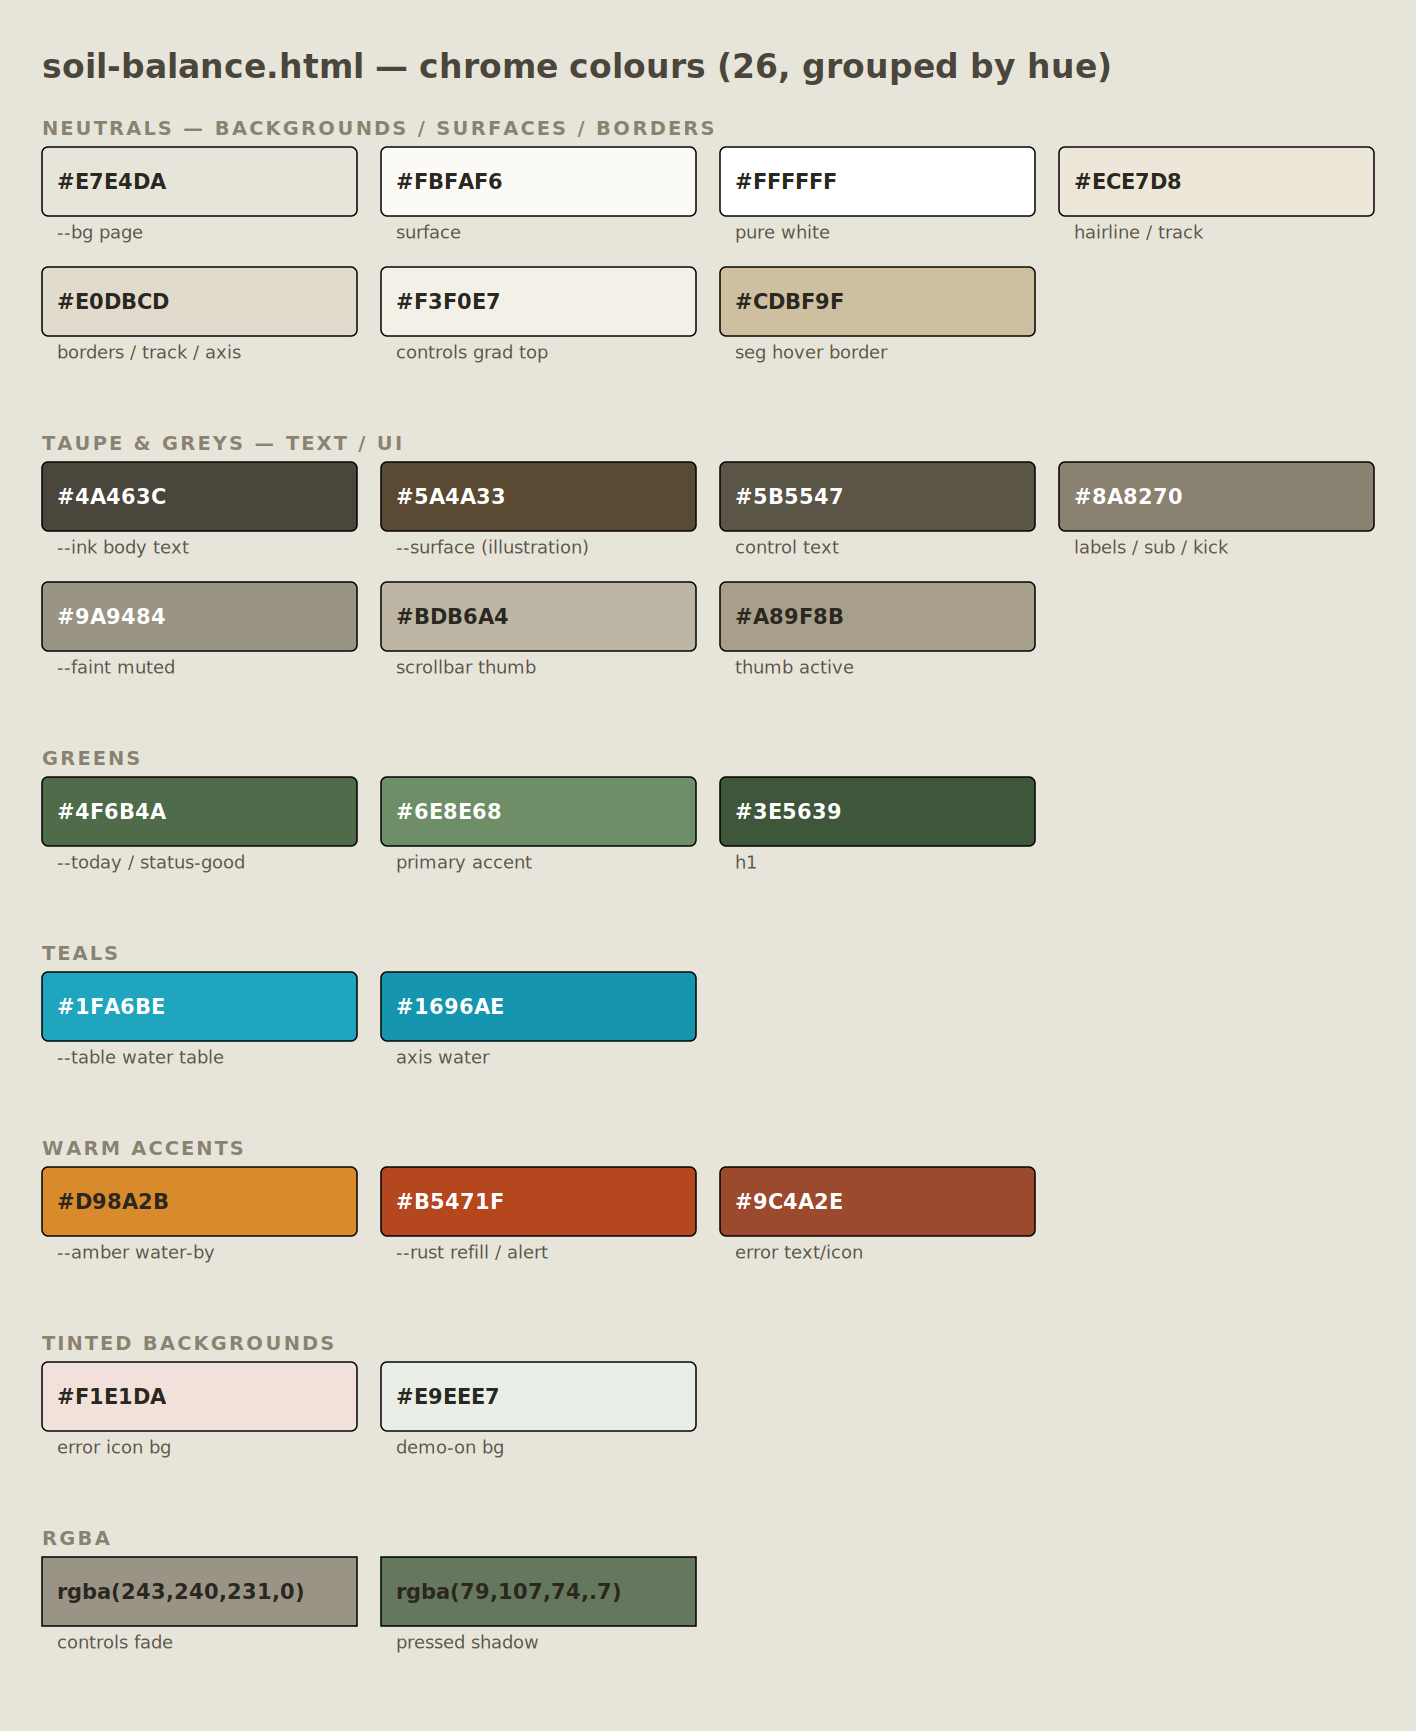
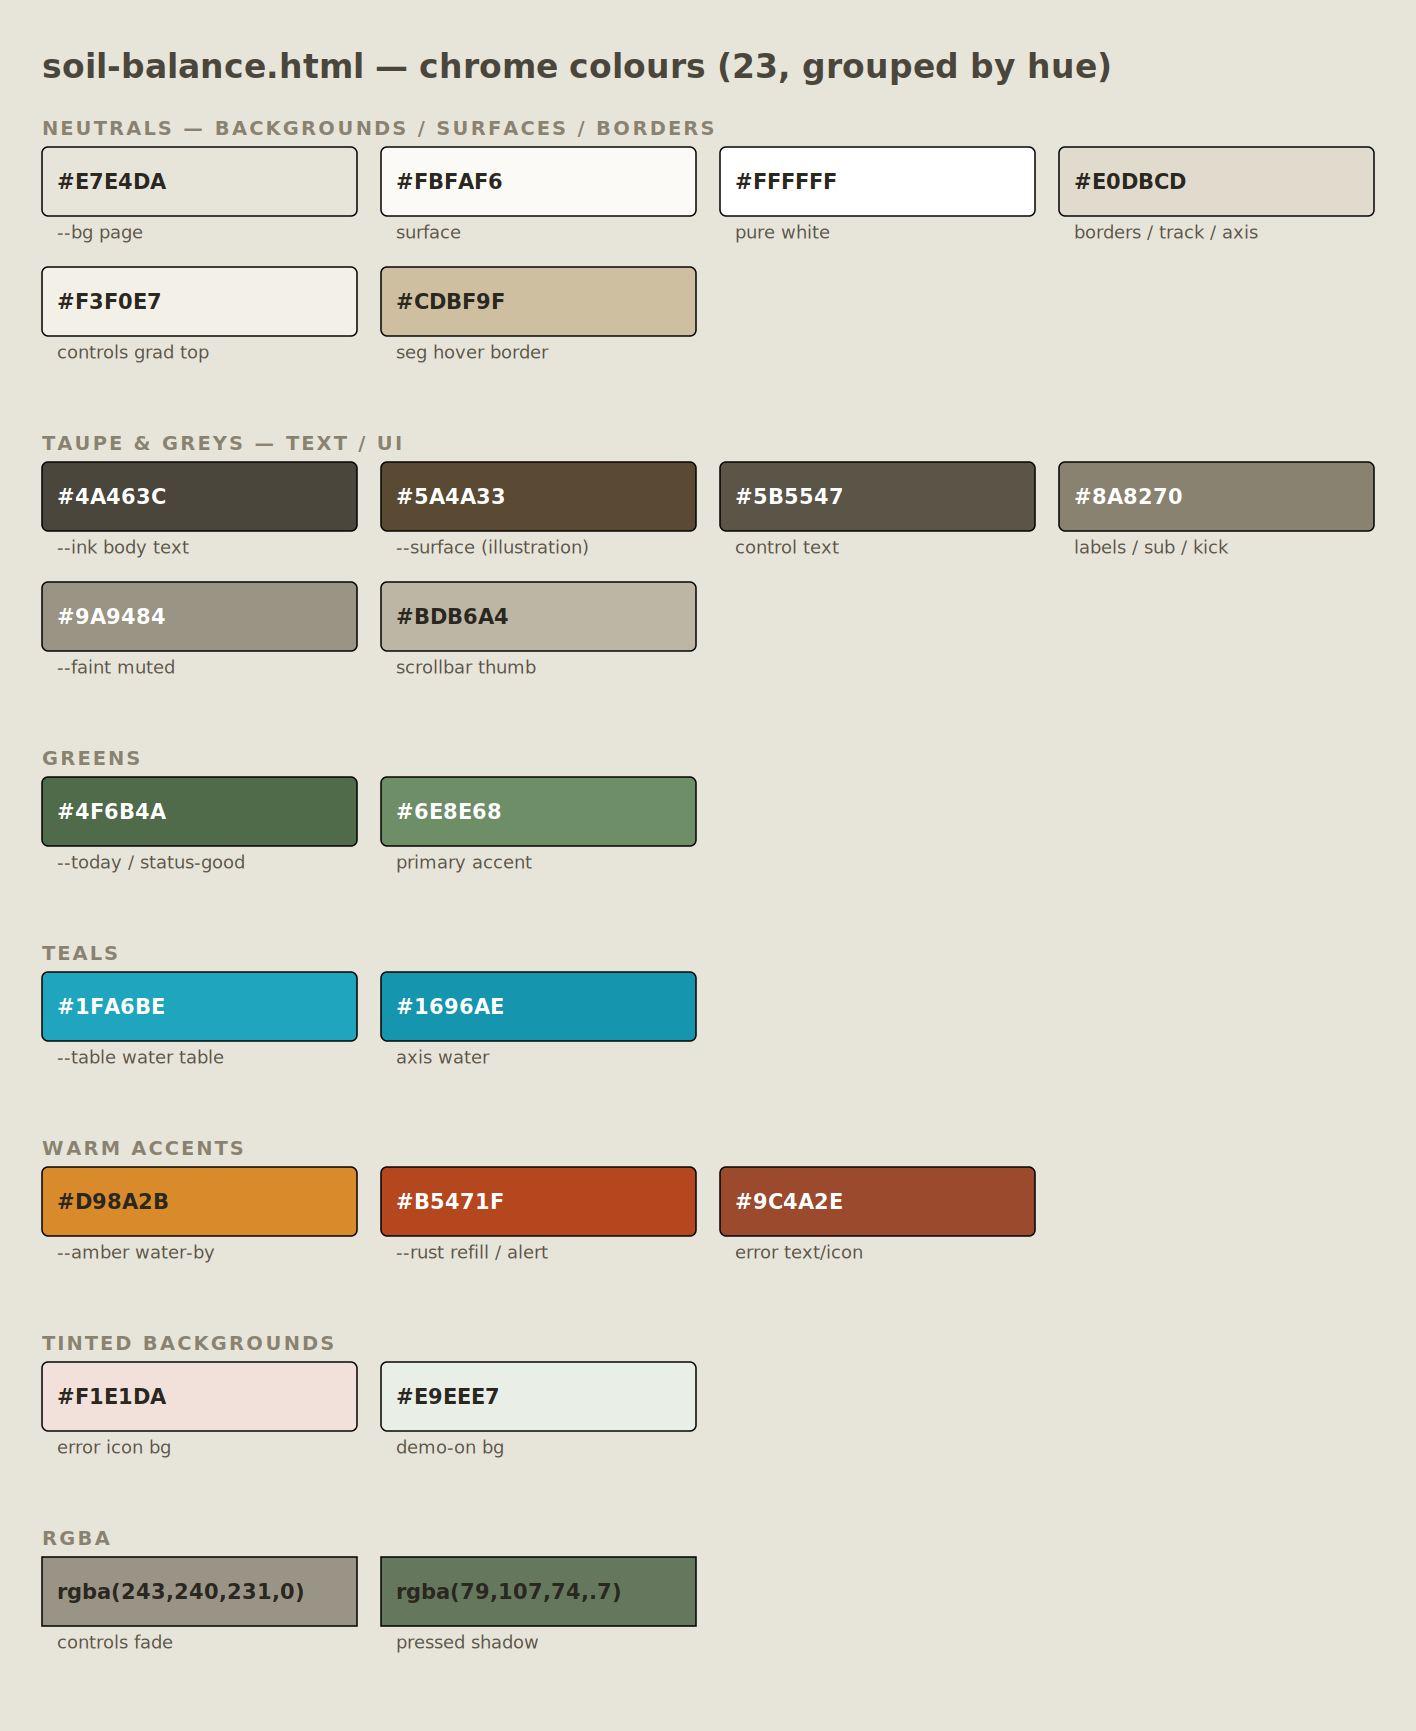
Drop 3 near-duplicate chrome colours (neutral, grey, green)
- #ECE7D8 -> var(--bg)        (ΔE 10.8, closest pair)
- #A89F8B (thumb active) -> var(--faint)
- #3E5639 (h1) -> #4F6B4A     (#3E5639 now SVG-only)

Chrome palette 26 -> 23. Palette reference regenerated.

Claude-Session: https://claude.ai/code/session_01LWU9oYqKFg8ffnR79RqK7k

diff --git a/docs/mockups/soil-balance.html b/docs/mockups/soil-balance.html
@@ -33,9 +33,9 @@
   .scroll{overflow-x:auto;overflow-y:hidden;-webkit-overflow-scrolling:touch;scrollbar-width:none}
   .scroll::-webkit-scrollbar{display:none}
   /* always-visible custom scrollbar (native bars auto-hide on mobile) */
-  .sbar{position:relative;height:9px;margin:8px 12px 0;background:#ece7d8;border-radius:6px;touch-action:none}
+  .sbar{position:relative;height:9px;margin:8px 12px 0;background:var(--bg);border-radius:6px;touch-action:none}
   .sthumb{position:absolute;top:0;bottom:0;left:0;width:40px;min-width:28px;background:#bdb6a4;border-radius:6px;cursor:grab}
-  .sthumb:active{cursor:grabbing;background:#a89f8b}
+  .sthumb:active{cursor:grabbing;background:var(--faint)}
   svg{display:block;transition:opacity .7s ease}
   .grow{transition:transform .8s cubic-bezier(.2,.8,.2,1),opacity .7s ease}
   .booting svg{opacity:0}
@@ -45,19 +45,19 @@
   }
   /* ===== app shell ===== */
   header.app{display:flex;align-items:center;gap:12px;flex-wrap:wrap;padding:12px 12px 12px}
-  header.app h1{margin:0;font-size:20px;font-weight:600;letter-spacing:0;color:#3E5639;display:flex;align-items:center;gap:8px}
+  header.app h1{margin:0;font-size:20px;font-weight:600;letter-spacing:0;color:#4F6B4A;display:flex;align-items:center;gap:8px}
   header.app .loc{font-family:var(--mono);font-size:12px;color:var(--faint);letter-spacing:.02em}
   .board{position:relative}
   /* ===== status headline (improvement #1) ===== */
-  .status{margin:4px 12px 12px;padding:16px 24px 16px;background:#FBFAF6;border:1px solid #ECE7D8;border-radius:18px}
+  .status{margin:4px 12px 12px;padding:16px 24px 16px;background:#FBFAF6;border:1px solid var(--bg);border-radius:18px}
   .status .kick{display:flex;align-items:center;gap:12px;font-family:var(--mono);font-size:12px;letter-spacing:.08em;text-transform:uppercase;color:#8a8270;font-weight:600}
   .status .dot{width:9px;height:9px;border-radius:50%;display:inline-block;flex:none}
   .status .word{font-family:var(--serif);font-size:30px;font-weight:500;letter-spacing:0;line-height:1.1;margin-top:8px}
   .status .detail{font-size:14px;color:#5b5547;margin-top:8px;line-height:1.4}
-  .status .metric{margin-top:12px;padding-top:12px;border-top:1px solid #ECE7D8}
+  .status .metric{margin-top:12px;padding-top:12px;border-top:1px solid var(--bg)}
   .status .pct{font-family:var(--serif);font-size:30px;font-weight:600;letter-spacing:0}
   .status .sub{font-size:12px;color:#8a8270}
-  .status .bar{position:relative;height:8px;background:#ECE7D8;border-radius:6px;margin-top:12px}
+  .status .bar{position:relative;height:8px;background:var(--bg);border-radius:6px;margin-top:12px}
   .status .fill{position:absolute;top:0;bottom:0;left:0;border-radius:6px}
   .status .mark{position:absolute;top:-3px;bottom:-3px;width:2px;background:var(--rust)}
   .status .rfl{position:relative;height:13px}